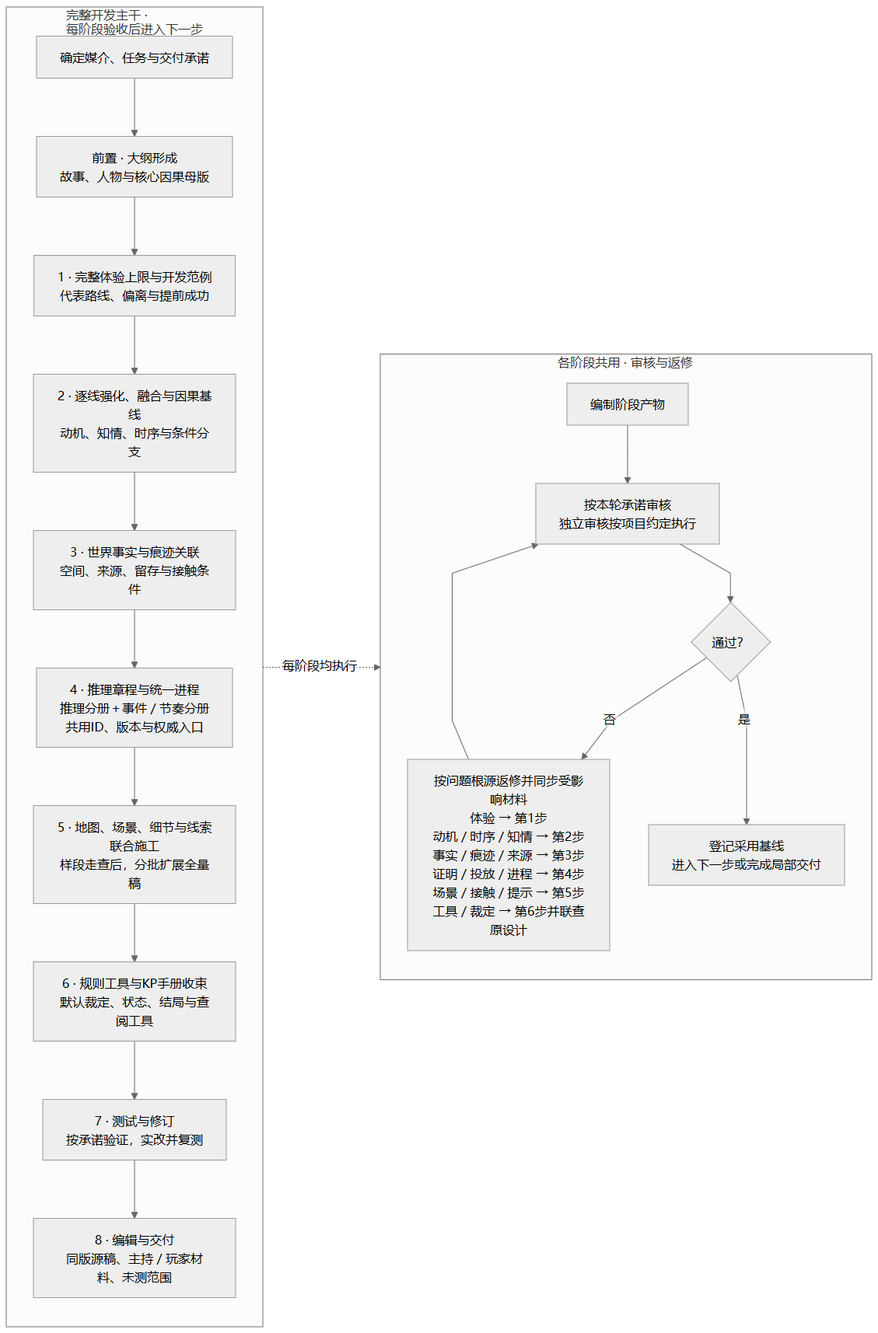
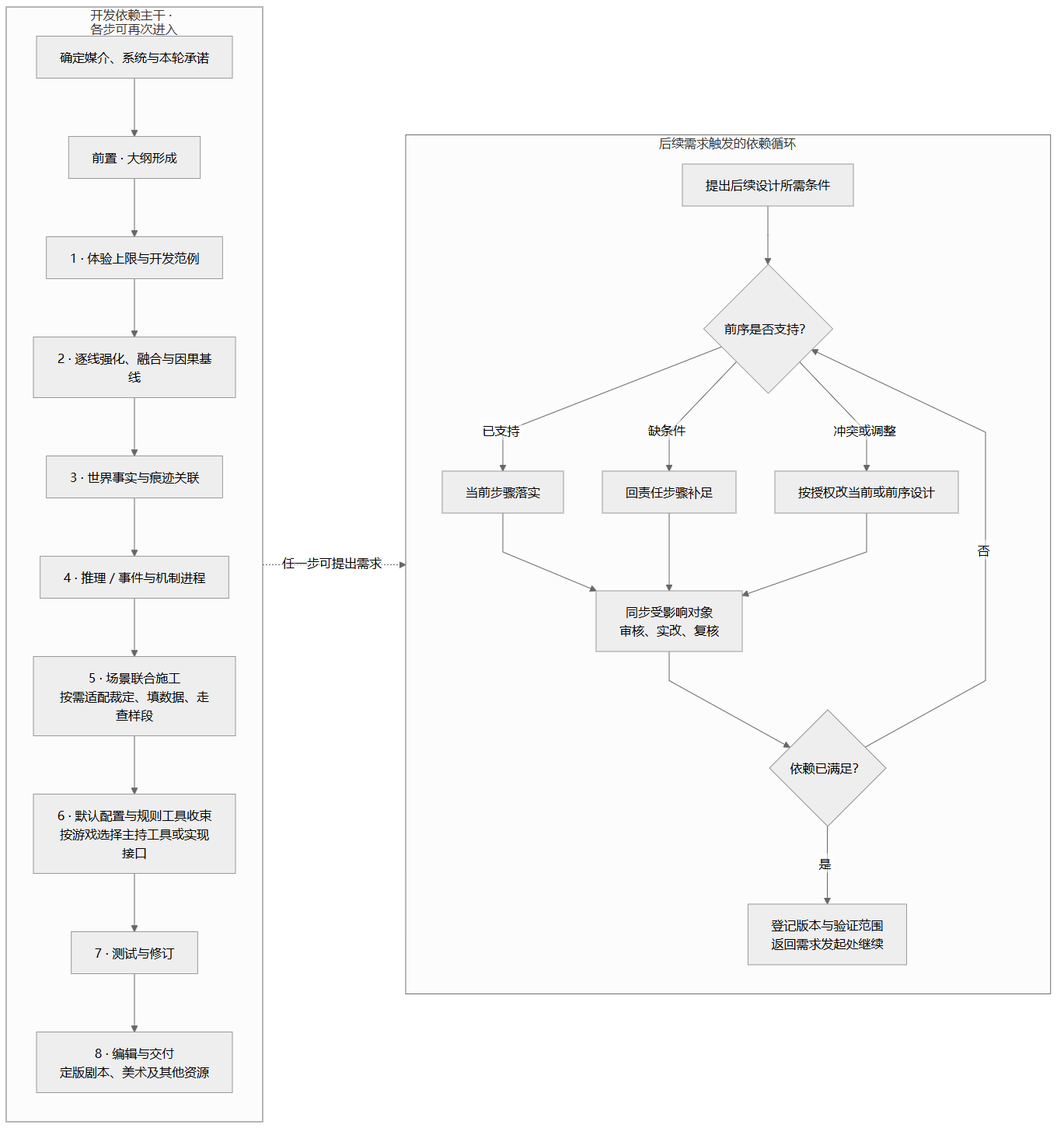
Clarify iterative workflow and game-specific configuration

diff --git a/coc-script-writing/references/workflow.md b/coc-script-writing/references/workflow.md
@@ -2,15 +2,17 @@
 
 本页用于安排一轮或一个阶段的开发。任务分流见[范围](scope.md)，记录字段见[字段与例子](contracts.md)，审核标准见[验收](review.md)。
 
-先选媒介和本轮交付目标，再进入相应步骤。以下“前置＋八阶段”是调查型互动／COC完整开发的工作顺序；玩家可以按实际选择探索故事。
+先选媒介和本轮交付目标，再进入相应步骤。以下“前置＋八阶段”以调查型互动／COC为例说明开发依赖；每一步可因后续需求再次进入，玩家可以按实际选择探索故事。
 
 文中“母版”指项目当前采用的故事总稿；“基线”指本轮修改应遵循的已采用内容；“施工”指把设计落实为场景、地图、材料和裁定。局部任务从相应步骤开始，不必重做全流程。
 
+来源修订：2026-10-10，完整流程v1.16；本轮明确后续依赖循环及按游戏选择的机制／配置任务。
+
 ## 工作流总图
 
-下图是调查型互动／COC的完整开发主干，表示作者的开发依赖顺序，不规定玩家的探索顺序。局部任务从对应步骤进入；其他媒介按后文适配表替换产物。
+下图以调查型互动／COC表示开发主干，右侧展示后续需求触发的回溯循环，不规定玩家的探索顺序。局部任务从对应步骤进入；其他媒介按后文适配表替换产物。
 
-![COC剧本开发工作流：前置与八阶段、阶段审核循环和按根源返修](../assets/workflow-overview.png)
+![剧本开发工作流：前置与八阶段、后续依赖循环及按游戏配置](../assets/workflow-overview.png)
 
 [查看可缩放SVG](../assets/workflow-overview.svg)。
 
@@ -19,34 +21,39 @@
 
 ```mermaid
 flowchart LR
-    subgraph MAIN["完整开发主干 · 每阶段验收后进入下一步"]
+    subgraph MAIN["开发依赖主干 · 各步可再次进入"]
         direction TB
-        T["确定媒介、任务与交付承诺"] --> P0["前置 · 大纲形成<br/>故事、人物与核心因果母版"]
-        P0 --> P1["1 · 完整体验上限与开发范例<br/>代表路线、偏离与提前成功"]
-        P1 --> P2["2 · 逐线强化、融合与因果基线<br/>动机、知情、时序与条件分支"]
-        P2 --> P3["3 · 世界事实与痕迹关联<br/>空间、来源、留存与接触条件"]
-        P3 --> P4["4 · 推理章程与统一进程<br/>推理分册＋事件／节奏分册<br/>共用ID、版本与权威入口"]
-        P4 --> P5["5 · 地图、场景、细节与线索联合施工<br/>样段走查后，分批扩展全量稿"]
-        P5 --> P6["6 · 规则工具与KP手册收束<br/>默认裁定、状态、结局与查阅工具"]
-        P6 --> P7["7 · 测试与修订<br/>按承诺验证，实改并复测"]
-        P7 --> P8["8 · 编辑与交付<br/>同版源稿、主持／玩家材料、未测范围"]
+        T["确定媒介、系统与本轮承诺"] --> P0["前置 · 大纲形成"]
+        P0 --> P1["1 · 体验上限与开发范例"]
+        P1 --> P2["2 · 逐线强化、融合与因果基线"]
+        P2 --> P3["3 · 世界事实与痕迹关联"]
+        P3 --> P4["4 · 推理／事件与机制进程"]
+        P4 --> P5["5 · 场景联合施工<br/>按需适配裁定、填数据、走查样段"]
+        P5 --> P6["6 · 默认配置与规则工具收束<br/>按游戏选择主持工具或实现接口"]
+        P6 --> P7["7 · 测试与修订"]
+        P7 --> P8["8 · 编辑与交付<br/>定版剧本、美术及其他资源"]
     end
-    subgraph Q["各阶段共用 · 审核与返修"]
+    subgraph LOOP["后续需求触发的依赖循环"]
         direction TB
-        W["编制阶段产物"] --> R["按本轮承诺审核<br/>独立审核按项目约定执行"]
-        R --> D{"通过？"}
-        D -->|否| F["按问题根源返修并同步受影响材料<br/>体验 → 第1步<br/>动机／时序／知情 → 第2步<br/>事实／痕迹／来源 → 第3步<br/>证明／投放／进程 → 第4步<br/>场景／接触／提示 → 第5步<br/>工具／裁定 → 第6步并联查原设计"]
-        F --> R
-        D -->|是| V["登记采用基线<br/>进入下一步或完成局部交付"]
+        N["提出后续设计所需条件"] --> C{"前序是否支持？"}
+        C -->|已支持| I["当前步骤落实"]
+        C -->|缺条件| B["回责任步骤补足"]
+        C -->|冲突或调整| A["按授权改当前或前序设计"]
+        I --> S["同步受影响对象<br/>审核、实改、复核"]
+        B --> S
+        A --> S
+        S --> D{"依赖已满足？"}
+        D -->|否| C
+        D -->|是| V["登记版本与验证范围<br/>返回需求发起处继续"]
     end
-    MAIN -. "每阶段均执行" .-> Q
+    MAIN -. "任一步可提出需求" .-> LOOP
 ```
 
 </details>
 
-图中实线表示主干顺序或审核循环，虚线表示每阶段均调用右侧审核循环；返修位置列在右侧。各阶段验收后才登记采用基线；非调查任务在第4步整理事件与信息进程。工具／裁定问题按相应原设计及第5—6步返修；母版事实改动另按项目授权处理。
+主干实线表示依赖，右侧实线表示需求处理，虚线表示各阶段均可发起回溯。已满足的设计继续落实；新增条件、冲突或合理调整回责任步骤处理。阶段审核和独立验收按当前承诺执行，固定事实修改仍按项目授权。
 
-时间与节奏评估贯穿各阶段；主题呈现按任务选用。修改后同步受影响的事实、两分册和场景材料，并按影响复核。图仅作导航，具体输入、交付和完成依据以下文为准。
+时间与节奏评估贯穿阶段，主题按需选用。机制和配置沿原阶段落实，具体规则按游戏选择；资源在最终阶段交付。图只作导航，执行依据见下文。
 
 ## 媒介与任务适配
 
@@ -85,6 +92,52 @@ flowchart LR
 **验证到哪一步：**按本轮承诺区分文本候选、接口包和可运行成品。文本候选可通过纸面验收；完整可主持的COC成品需要已核关键规则、完整默认裁定，并记录实际非作者运行资格。可运行数字交付需要实现和运行证据。
 
 真人桌测、排演、用户测试分别记录实际资格。完成约定范围即可交付，范围外列为未测。详细标准见[验收](review.md)。
+
+## 后续需求与前序设计的循环
+
+前置＋八阶段表示开发依赖，不表示各阶段只做一次。循环的主要触发是后续设计需要前序条件得到落实、补足或修改；阶段审核仍按当前承诺执行。某阶段通过，只证明该对象在当时范围内通过，不永久关闭该阶段。
+
+1. **提出需求。** 当前场景、机制、配置或测试说明需要什么条件、来自哪个对象，以及不满足会影响什么。例如切断供电的行动需要可接近的设施，停电后哪些事件应改变。
+2. **核对现有前序。** 先检查当前采用版本，不因当前页面未写就断言不存在。按下表决定工作位置。
+3. **落实或修改。** 已有支持在当前步骤实现；缺条件回责任阶段补足；冲突或改进按授权调整当前方案或前序设计。改变母版固定事实另记差异，不自动解冻。
+4. **同步与复核。** 更新受影响的因果、事实、机制、数据、信息进程、场景及工具；只更新实际相关对象。复核需求是否满足、旧有行动与成果是否仍成立，记录新版本、修改范围及未测项。
+5. **返回需求发起处。** 使用同版本结果继续当前工作。仍未满足的决定性依赖保持阻断；可独立推进的部分继续，不虚构前提，也不无故重跑全流程。
+
+| 前序检查结果 | 执行动作 | 继续依据 |
+|---|---|---|
+| 已支持，尚未落实 | 在当前场景或配置中引用并实现 | 行动、反馈和结果与既有条件一致 |
+| 缺少必要条件或数据 | 回负责该事实、机制或配置的步骤补足 | 所需条件有依据，相关数据可用 |
+| 存在冲突或需要调整设计 | 比较改当前方案与改前序的影响，按授权实改 | 因果和约束成立，受影响对象复核通过 |
+
+返修位置按问题归属，见后文“工作循环与返修”。不把所有缺数都退回第2步，也不把所有机制问题都留到第6步。填数若改变原先假设的能力、耗时、成本或结果，应重新核相关设计。
+
+最小记录可合入既有问题表：需求及发起位置、依赖对象／版本、缺口或冲突、处理位置与理由、采用修改、影响范围、复核结果与继续位置。小修只记实际涉及项。
+
+**停点：**当前需求已满足、相关改动复核通过且本轮交付完成即可收束。未实现的设想和未测范围保留为开放项，不为了“完成循环”虚报通过。独立验收按项目约定审核本轮对象与影响范围，不自动把全部历史内容重新验收。
+
+## 按游戏选择机制与配置任务
+
+通用流程复用故事、因果、信息、空间、场景和验证依赖；游戏机制、裁定方式和具体数据按所选游戏决定。无规则的叙事作品无需填游戏数值；其他TRPG、数字互动或自定义游戏不默认采用COC检定、SAN、战斗或追逐。
+
+区分三项工作：**机制设计**确定玩家行为怎样改变条件、状态与结果；**规则适配**确定所选系统怎样裁定这些行为；**数据配置**在已确定机制下填写本项目需要的角色、物品、敌人、状态及参数。三项按依赖穿插于原阶段，不新增统一的机制阶段或通用数值模板。
+
+| 阶段 | 按需执行的机制／数据工作 | 完成依据 |
+|---|---|---|
+| 前置 | 确定媒介、所选系统与版本或自定义边界；记录决定核心故事可行性的规则约束 | 采用范围明确，决定性未知不作为已成立前提 |
+| 1 体验 | 提取路线需要的玩家行为、玩法和结果；必要时核关键能力 | 代表路线在所选游戏中有成立依据 |
+| 2 因果 | 设计机制目的、前件、变化、干预和后果，联查人物知情 | 机制支持故事因果与真实选择 |
+| 3 世界 | 落实机制所需实体、空间、事实、状态来源及接触条件 | 场景所需条件可存在、可接近、可改变 |
+| 4 进程 | 接入触发、状态更新、时间、反馈和取消条件；调查时再接推理目标 | 事件与机制接口一致，提前成功持续生效 |
+| 5 场景 | 按场景需求适配裁定，填写必要数据并走查正常、偏离、重复和取消 | 样段不缺决定性裁定或配置，变化可追踪 |
+| 6 配置与工具 | 核同版本默认配置、可调范围、数据一致性及查阅入口；提取主持工具或实现接口 | 默认方案完整，使用者无需临场补决定性设计 |
+| 7 测试 | 按承诺验证规则和配置，发现问题返回责任步骤，修改后复测 | 当前验证证据绑定实际对象与配置版本 |
+| 8 交付 | 汇总定版剧本文稿、美术及其他资源，并附规则、配置、源稿与使用说明 | 所需资源齐全、同版、权限及未测范围可查 |
+
+影响行动可行性、因果或体验的机制与数值须在依赖它们之前核验，第6步负责收束，不是首次决定所有机制。仅文本／接口交付注明待实现和未运行范围，不能冒称完整游戏已可运行。
+
+填写数据先确定当前对象需要哪些字段，记录字段含义、单位或取值类型、默认值及依据、适用条件和版本；只填当前需要的项。具体规则来自实际系统或明确标注的项目自定义设计；缺来源或决定性数值时登记待核及影响，不臆造“通用标准值”。没有某类机制时，说明不适用，不强填空表。
+
+美术、剧本及其他最终资源归第8步交付，不另建资源开发阶段。前序用于验证的正文、地图或手证样稿是设计依据；最终资源若改变信息、操作或反馈，按影响回原设计及第7步复核。
 
 ## 前置：大纲形成
 
@@ -158,6 +211,8 @@ flowchart LR
 
 ### 第3步的后续返工
 
+按[后续需求循环](#后续需求与前序设计的循环)回溯，以下补充本步的事实边界。
+
 后续推理、地图、场景、规则或测试提出合理优化需求时也可返回本步，不限硬矛盾。事实／来源／留存与继承关系改变时更新本步，涉及人物动机或事件因果则联查第2步；仅提供位置或呈现方式改变且事实未变，修改相应后续产物即可。同步受影响时点、空间、知情、材料、目录和两分册／场景，按影响复核并登记新版本。母版修改权限另按项目约定，第三步返工不自动解冻母版。
 
 ## 第4步：推理章程与统一进程
@@ -202,19 +257,19 @@ flowchart LR
 2. 联合检查空间、物性、视听、人手、搬运、时序和行动机会。
 3. 写一段完整样段，带齐需要的规则、地图、角色、材料与后果。先走查正常和偏离，再按有效模板分批扩展。
 
-交付：场景、地图、手证、人物运行、局部状态、可主持样段与全量稿。
+交付：场景设计稿、地图与手证样稿、人物运行、必要裁定和配置、局部状态、可主持样段与扩展稿；定版资源归第8步。
 
 完成：信息可按指定条件取得，自由行动有相称反馈；样段能由非作者KP运行。纸面模板检查与实际运行资格分开。
 
-## 第6步：规则工具与KP手册收束
+## 第6步：默认配置、规则工具与运行接口收束
 
 这一步统一内容与查阅方式。一般剧本整理正文和制作标注；数字互动整理状态与规则接口；COC整理默认裁定和KP手册。
 
 输入：内容完善的场景、已核关键规则、原设计。
 
-工作：按[coc](coc.md)统一裁定与生存结局，提取NPC／事件／状态／索引与使用手册。默认实现、可调项和待填责任明确，缺口回原设计修。
+工作：按所选游戏核验同版默认配置、裁定、状态与结局，提取查阅工具及主持手册或实现接口。COC任务才按[coc](coc.md)加入相应规则与KP工具，其他系统使用实际规则。默认实现、可调范围、单位、数据依据和待填责任明确；缺口按[后续需求循环](#后续需求与前序设计的循环)回责任步骤，不能在手册中临时补决定性设计。
 
-交付：规则表、状态事件工具、结局、手册与主持包候选。
+交付：本游戏需要的规则／配置表、状态事件工具、结局、主持手册或实现接口包候选。
 
 完成：同机制查阅口径一致，非作者无须补决定性事实。此步不新增剧情阶段，亦不作为前期省略机制设计的理由。
 
@@ -235,7 +290,7 @@ flowchart LR
 这一步让接收者找到同版本材料，并知道怎样准备、使用和结束。各媒介的交付对象见[媒介适配](#媒介与任务适配)。
 输入：达到约定验证范围的同版材料。
 
-工作：分KP／玩家包、核泄密，统一名称、ID、地图、手证与索引，附源稿、变更、配置、覆盖与限制。不同规格分别说明删改依赖与测试。
+工作：按约定汇总定版美术、剧本文稿与其他资源，分主持／玩家或实现方所需材料、核泄密，统一名称、ID、地图、手证与索引，附源稿、变更、配置、覆盖与限制。不同规格分别说明删改依赖与测试。
 
 交付：可编辑源稿、可主持或测试包、玩家材料、版本记录与交付边界。
 
@@ -243,7 +298,7 @@ flowchart LR
 
 ## 工作循环与返修
 
-常规阶段采用“编制→按当前承诺审核→实改→复核→登记基线”。需要深度探索多个方案时，使用[技巧](craft.md)的七步循环。
+后续需求先按[依赖循环](#后续需求与前序设计的循环)处理，再按当前承诺执行“编制→审核→实改→复核→登记基线”。需要深度探索多个方案时，使用[技巧](craft.md)的七步循环。
 
 场景施工按批推进：恢复当前基线，写一批，走查常规和偏离，修复问题，检查受影响的地图、手证等材料，登记完成范围。独立审核或逐步验收按用户约定执行，记录实际结果。
 
@@ -254,7 +309,9 @@ flowchart LR
 | 痕迹来源、生命周期、位置不成立 | 第3步 |
 | 证明断路、释放失衡、错误解释难修 | 第4步 |
 | 接触、操作、提示或查阅困难 | 第5步／第6步 |
-| 数值裁定、条件成功、结局不一致 | 相应原设计及第6步 |
+| 机制前件或行为后果缺失 | 相应原设计；因果第2步、事实第3步、进程第4步 |
+| 缺少场景数据或裁定 | 第5步；配置一致性与默认方案联查第6步 |
+| 数值改变能力、耗时、条件成功或结局 | 联查其影响的原设计及第5—6步 |
 | 母版事实必须改变 | 单列差异和影响，按项目授权处理 |
 
 保留成立部分，按影响复核，不为守冻结文本保矛盾，也不无故重跑整部开发。每轮交代做成什么、受众／玩家因而可经历或做什么、材料怎样支持理解、哪里未验证。

diff --git a/coc-script-writing/audit/29-workflow-use-check.md b/coc-script-writing/audit/29-workflow-use-check.md
@@ -1,0 +1,78 @@
+# 29｜流程依赖循环与机制配置独立纸面使用
+
+日期：2026-10-10。执行者未参与本轮流程／机制配置修订，实际读取克隆中的当前SKILL、scope、workflow、contracts后完成A—D；保留此前审读及旧参考编辑上下文，**非全新盲测**。本记录保存实际AI纸面输出，不是母版采用、工程核验、主持、排演、真人或引擎测试，也不是作者外审核本产物的报告。
+
+首次回答时未单独记录SHA，因此不追认首次对象字节未变。落盘前重新读取当前入口与有关正文：依赖循环三类处置、机制／规则／数据的区别、媒介适配、第5—8步及字段。当前文本仍支持以下四个输出，未发现要求修改输出的语义差异。下表绑定落盘前实际读取对象。
+
+## A｜第5步断电，前序已有设施与断电分支
+
+**执行位置与依赖：**留在第5步，引用第3步已有可接近配电箱、接近条件及既有事件断电分支。当前页未写不等于前序缺失，不无故重建第3步或返回第2步。
+
+**最小场景记录：**
+
+- 入口：引用已有配电箱及接近条件。
+- 行动：玩家选择操作配电箱断电；操作方式、耗时和裁定引用已有设计，有缺项才补核。
+- 结果：操作成立后进入既有断电分支，兑现取消、延迟或变化，保留此前已发生结果。拒绝操作保持原状态。
+- 重复：已经断电时再次执行不重复产生断电成果；恢复供电按已有条件处理。
+
+**成果与复核：**得到断电场景接口及其分支引用。核场景、地图和事件分支使用同版本，纸面检查执行／拒绝／已断电后三种情况。
+
+**本案结论：**已有支持可以继续当前步落实；处理位置与结果约束明确。原操作裁定、地图及事件分支全文未给，未核具体细节，不称完整样段运行通过。
+
+## B｜第5步缺供电设施，人物行动依赖不停电
+
+**执行位置与依赖：**第3步补设施，联查第2步人物知情和行动、第4步事件状态，再返回第5步。固定母版事实修改记录差异并按已有授权处理。
+
+**明确上游修改候选：**
+
+1. 第3步：为目标供电回路增加可接近控制设施，登记位置、接近方式、控制范围、操作条件及停电后保留状态。设施为候选，未冒充已有事实。
+2. 第2步：找出依赖持续供电的人物行动，保留其目标和原知情。设施存在不等于人物知道；断电后分别核实际观察、消息送达及行动能否继续。原行动失去前件时不能照演；替代行动须有原能力和资源依据。
+3. 第4步：供电状态接入事件触发、暂停／取消和反馈条件。
+4. 第5步：引用复核后的设施与进程，写操作、失败／拒绝、提前断电和后续反馈。
+
+**成果与复核：**补足候选及返修链。影响表为“设施事实→供电状态→人物知情／行动→事件条件→场景／地图”。核断电是否真的改变依赖事件、人物是否凭实际信息反应，以及旧有成果是否保留；通过后登记同版本并返回需求发起处。
+
+**本案结论：**回溯位置及继续依据可执行，但项目依赖仍待补足；设施方案、人物原行动和授权范围未给，不能宣称断电场景已完成。独立部分可以继续；未作工程或运行验证。
+
+## C｜非COC数字游戏，行动需10点而可得6点
+
+**执行位置与依赖：**第5步数据暴露行动不可达，联查受影响的机制／路线原设计及第5—6步配置。不能只填数宣布完成，也不把所有问题统一退回第2步。
+
+**实际诊断：**若这是必须完成的行动，又无其他已设计资源来源或替代路径，则最多6点不能支付10点，当前样段不能通过。
+
+**最小修订候选：**成本从10点改为6点，可得仍为6点，不增加隐藏奖励。单位沿用项目资源“点”；此为项目候选值，不是通用标准，不自动采用。
+
+- 入口：资源余额≥6且行动尚未完成。
+- 执行：支付6点，新余额写为原余额减6；本例6点写为0，行动结果写为已完成。
+- 不足：余额＜6提示缺额，不扣资源、不产生成功结果。
+- 重复：已完成后禁止再次扣费。
+
+**纸面走查成果：**6点→支付→0点并完成；5点→不执行→仍5点；完成后再请求→不扣费。此处6点分支按本例余额恰为6，其他可达余额须按实际项目取值复核。
+
+**本案结论：**已完成不可达诊断、数值候选及三条纸面状态走查；尚未完成整个路线修复。必须联查此前消耗、共享用途和后续必须行动；若6点另有不可避免支出，本候选仍不足，返回原设计重处理。原成本可改权限未给，未核平衡、完整资源路线或引擎实现，不能宣布游戏可运行。
+
+## D｜无游戏数值舞台剧与非调查自定义桌游
+
+| 对象 | 本案选择及最小交付 |
+|---|---|
+| 一般舞台剧 | 游戏机制、规则适配及数据配置不适用。用人物因果、空间和观看顺序写正文；第4步安排观众信息释放，无推理分册；第5步交场景正文及动作／制作问题，第6步整理同版正文和制作标注。 |
+| 有状态机制的非调查自定义桌游 | 采用项目自定义规则。第2步确定前件、变化、干预、后果；第3步落实状态来源及接触；第4步交事件／信息进程；第5步填本游戏必要数据并走查；第6步收束默认配置及主持工具。无需COC检定、SAN或完整推理分册。 |
+
+**桌游最小接口：**读取当前状态→核合法动作和成本→执行状态变化→反馈实际结果→核重复和终止。配置只填实际需要的状态类型、默认值、成本、条件、依据及版本；具体值未给，登记待核，不编造标准数。
+
+**最终资源与复核：**两者的定版剧本、美术和其他约定最终资源归第8步汇总；前序样稿用于设计和验证。最终资源若改变信息或操作，回对应设计及第7步复核。舞台剧按承诺冷读／排演，桌游按承诺纸面走查／主持／真人测试，各自记录实际范围。
+
+**本案结论：**已交媒介分流、机制任务及接口模板，没有强套调查或COC。尚未提供具体剧本和桌游规则，未完成这些作品的场景施工，也未排演、主持、真人或引擎测试。
+
+## 使用结论与对象指纹
+
+四案可由当前技能入口实际完成上述纸面分析和最小接口输出，未发现技能使用阻断。B、C和桌游配置的项目缺口如实保留，不把项目未完成等同方法通过，也不把本产物自评作为独立验收。
+
+读取路径根：`D:/SZK/Personal/COC/CocSWSkill/coc-script-writing/`。
+
+| 当前实际读取对象 | SHA256 |
+|---|---|
[4 lines of base64/hex data omitted]

diff --git a/coc-script-writing/audit/28-workflow-revision-review.md b/coc-script-writing/audit/28-workflow-revision-review.md
@@ -1,0 +1,56 @@
+# 28 · 工作流依赖循环与按游戏配置修订验收
+
+日期：2026-10-10。基于发布仓库1806b8553cf7387066dbc0b61ffc32665a6be52e，按用户要求修正现有流程，保留前置大纲与八阶段。循环以“后续设计需要前序支持”为触发；最终剧本、美术及其他资源归第8步，不另建资源阶段。
+
+## 改动与独立停点
+
+- 架构：taxonomy_recheck独立审核修订计划，通过。已有支持就在当前步骤落实；缺条件回责任步骤补足；冲突或合理调整按项目授权改当前或前序。同步影响对象、复核并登记版本后，返回需求发起处。
+- 内容：taxonomy_recheck独立复验正文、路由、源文与图示，初审发现源流程仍把返修限于硬矛盾、源README版本表仍为v1.15，两项实改后再次审核通过，无剩余必修。阶段表示例加COC适用说明；其他游戏按所选系统配置，一般剧本不强填游戏数值。
+- 使用：migration_acceptance独立执行四个具体纸面情境，输出与实际范围见[29使用检查](29-workflow-use-check.md)。执行者未参与本轮方法编写，保留先前审读上下文，不是盲测。taxonomy_recheck另读29实际输出并独立验收四案，通过：A不无谓返工，B保留候选与知情边界，C联查消耗且不把候选称标准，D按媒介分流。
+
+机制设计、规则适配与数据配置沿原阶段执行；决定性规则和数值在依赖之前核验，第6步统一默认配置与工具。固定母版不因后续需求自动解冻，返修遵循现有项目授权。
+
+## 实际检查与范围
+
+独立内容审核读取10份文本，检查208个本地链接／锚点，无错误；SVG XML解析通过，20个Mermaid节点／分组标签均在SVG内；PNG已独立查看，前置八步和三支循环清楚。作者另检查发布改动空白及图示生成结果。
+
+通过限本轮文本、路由和图示内容，不重授全部历史文档资格，不代替真人桌测、排演、引擎运行或项目成品验收。历史R4来源清单保留当时对象，本轮源文前后指纹另列如下。许可、推理和节奏方法未改。
+
+## 发布对象SHA256
+
+| 对象 | SHA256 |
+|---|---|
[9 lines of base64/hex data omitted]
+
+## 本地通用源文修订指纹
+
+源文保留在echo/design-guides；本轮只同步相应技能方法与入口，不将echo工程的其他内容纳入发布仓库。
+
+| 源文件 | 修订前SHA256 | 修订后SHA256 |
+|---|---|---|
[3 lines of base64/hex data omitted]
+
+## 冻结方法核验
+
+下列四对象与本轮开始时字节一致：
+
+| 对象 | SHA256 |
+|---|---|
[4 lines of base64/hex data omitted]
+
+## 收据与使用产物复核
+
[1 lines of base64/hex data omitted]

diff --git a/coc-script-writing/SKILL.md b/coc-script-writing/SKILL.md
@@ -20,6 +20,7 @@ description: "Use when drafting, revising, planning, or reviewing Chinese Call o
 | 游玩估时、节奏、疲劳、版本比较或复盘 | [时间与节奏](references/play-evaluation.md)，先读第18节合同，粗稿用第14节A—D |
 | 题材主题及线索／痕迹的呈现 | [主题呈现](references/theme-presentation.md)及当前领域 |
 | 异常、恐怖、系统接口、KP手册和成品 | [COC](references/coc.md) |
+| 后续设计缺前序条件、机制设计或按游戏配置 | [流程](references/workflow.md#后续需求与前序设计的循环)；字段需要时加[字段与例子](references/contracts.md) |
 | 整阶段或整轮开发 | [流程](references/workflow.md)，随后逐阶段加载相关领域 |
 | 大纲、场景、重写、可读性、候选发展 | [技巧](references/craft.md)及当前领域 |
 | 填写必要卡表或最小交付 | [字段与例子](references/contracts.md) |
@@ -40,7 +41,7 @@ description: "Use when drafting, revising, planning, or reviewing Chinese Call o
 
 ## 完成与验证
 
-依[流程](references/workflow.md)确定输入、工作、产物和完成依据。用户约定独立验收时，由未参与该步编写的人或代理读取实际稿并记录证据；问题实改、复验通过后再进入下一步。按实际执行情况登记验收身份与范围。
+依[流程](references/workflow.md)确定输入、工作、产物和完成依据。用户约定独立验收时，由未参与该步编写的人或代理读取实际稿并记录证据；后续需求可能要求回前序补足或修改；按影响同步，问题实改、复验通过后返回需求发起处继续，已满足依赖的工作可推进。按实际执行情况登记验收身份与范围。
 
 交付说明当前对象、完成状态、主要变化和必要开放项。旧评分只归旧稿；当前文本复核、AI模拟、非作者KP运行和真人桌测分别登记。达到本轮标准后收束，尚未解决的问题如实保留。
 

diff --git a/coc-script-writing/references/scope.md b/coc-script-writing/references/scope.md
@@ -33,6 +33,7 @@
 | 设计非调查互动的合作、任务或跨线 | [互动](interactive.md)；跨线加[叙事](narrative.md)及[七类联系](investigation.md#seven-links) | 条件、动作、状态与反馈；按需采用行动或信息／探索联系 |
 | 设计调查信息与推理体验 | [推理设计](inference-design.md)，加相关[叙事](narrative.md)／[互动](interactive.md)；七类联系读[调查](investigation.md#seven-links) | 玩家材料、认知动作、证明范围及行动用途 |
 | 写COC异常或主持材料 | [COC](coc.md)，加涉及的人物／条件参考 | 符合当前系统与交付成熟度的具体产物 |
+| 后续设计要求前序补足／修改，或按游戏配置机制与数据 | [流程的依赖循环](workflow.md#后续需求与前序设计的循环)及[机制与配置任务](workflow.md#按游戏选择机制与配置任务) | 需求、责任步骤、影响范围、实改与复核；采用实际游戏规则 |
 | 整阶段／整轮开发 | [流程的媒介适配](workflow.md#媒介与任务适配)，再逐阶段加载领域参考 | 约定输入、产物、完成证据及返修位置 |
 | 验收或维护现有版本 | [验收](review.md)或[维护](maintenance.md)，加被改领域及必要[字段](contracts.md) | 对象、覆盖、问题响应与当前状态，不继承旧对象资格 |
 

diff --git a/coc-script-writing/README.md b/coc-script-writing/README.md
@@ -127,7 +127,7 @@ coc-script-writing/
 
 本技能来自COC开发实践与通用方法整理，目标是把故事设想发展成可读、可调查、可选择、可主持、可维护的剧本。它按媒介、任务和阶段选方法；从剧情用途连接推理目标、证据与行动；共同检查时间、体验、疲劳和主题呈现。方法特色是已有研究与实践的工程整合，不宣称学术首创或已证明真人效果。
 
-简要流程：前置大纲→体验设计→逐线融合→世界事实→推理／事件章程→场景施工→规则工具→测试修订→编辑交付。局部任务按需调用，不必完整走一遍；完整阶段、验收和返修路径见[工作流总图](references/workflow.md#工作流总图)。
+简要流程：前置大纲→体验设计→逐线融合→世界事实→推理／事件章程→场景施工→配置与规则工具→测试修订→编辑交付。阶段表示依赖、可重复进入；后续需要可返回前序补足或修改，按影响复核后继续。机制与数据按游戏配置，定版资源归最终交付。局部任务按需调用，不必完整走一遍；完整阶段、验收和返修路径见[工作流总图](references/workflow.md#工作流总图)。
 
 ## 授权：CC BY-NC-ND 4.0
 

diff --git a/coc-script-writing/audit/acceptance.md b/coc-script-writing/audit/acceptance.md
@@ -1,6 +1,12 @@
 # 分步独立验收与当前资格
 
-## R4通用方案再整合：当前采用
+## 工作流依赖循环与按游戏配置：当前采用
+
+2026-10-10，保留前置与八阶段，按后续需求落实、补足或授权调整前序；机制／规则／数据沿原阶段按游戏执行，第6步收束，第8步交付最终资源。架构及内容由taxonomy_recheck独立审核，两处源文必修关闭后复验通过。migration_acceptance执行四个纸面用例，taxonomy_recheck另读实际输出并独立验收通过；执行者未参与本轮方法编写但有旧审读上下文，非盲测。
+
+对象、源文前后指纹及内容检查见[28验收](28-workflow-revision-review.md)，具体使用输出与未测项见[29使用检查](29-workflow-use-check.md)。通过限该轮文本、图示及AI纸面使用，不授真人／引擎资格；推理、节奏及许可未改。后文历史资格仍限其各自对象。
+
+## R4通用方案再整合：方法沿用
 
 2026-10-10，在仓库既有推理迁移786052e基础上保留参考1.1的角色域修正，形成1.2节奏／主题接口；完整迁入节奏v1.1及新增主题规范，补齐流程返工、两分册、百分制、专项检查和项目门面、自用许可。
 

diff --git a/coc-script-writing/references/contracts.md b/coc-script-writing/references/contracts.md
@@ -123,6 +123,12 @@
 
 数字节点接口依执行顺序写：入口条件→读取既有状态→玩家行动→结果条件→写入新状态→反馈→出口。分支汇合时读取此前差异，使已有成果继续生效。接口文本、实际实现和测试各自登记。
 
+## 按游戏配置与依赖需求记录
+
+任务执行与字段选择依据见[流程的机制与配置任务](workflow.md#按游戏选择机制与配置任务)。配置只记录本游戏实际需要的对象、字段含义、单位／类型、默认值、依据、适用条件及版本；不要求所有系统填写同一套角色或战斗数值。
+
+后续需求可合入既有问题表：发起位置与需求、依赖对象／版本、已有支持／缺口／冲突、责任步骤与理由、采用修改、影响范围、复核结果及返回位置。小修只填写相关项，具体循环由[流程](workflow.md#后续需求与前序设计的循环)维护。
+
 ## 审核与变更
 
 每项问题记录位置与版本、事实或引文，再说明缺陷、影响、级别、修法、复核标准及处理状态。分数可以附在诊断后，不能代替证据。

diff --git a/coc-script-writing/audit/README.md b/coc-script-writing/audit/README.md
@@ -6,6 +6,8 @@
 
 本轮通用方案再整合与节奏／主题扩展见[20整合记录](20-integration-revision.md)、[21内容复验](21-integration-content-review.md)、[22实际使用](22-integration-use-output.md)、[23使用裁定](23-integration-use-review.md)及[R4来源清单](source-manifest-r4.json)，旧报告保留原对象。
 
+本轮工作流依赖循环与按游戏配置修订见[28修订验收](28-workflow-revision-review.md)和[29独立使用检查](29-workflow-use-check.md)，资格仅覆盖各报告绑定的对象与验证范围。
+
 ## 先看当前状态
 
 [acceptance.md](acceptance.md)汇总各轮的对象、结论和限制。当前文本有后续修改时，以新一轮报告绑定的对象为准。早期报告中的“阻断”“待验收”和机器路径，反映当时状态；后来的通过不会改写旧记录。

diff --git a/coc-script-writing/ARCHITECTURE.md b/coc-script-writing/ARCHITECTURE.md
@@ -59,7 +59,7 @@ coc-script-writing/
     investigation.md             调查总览与七类推理／行动联系
     inference-design.md          目标、双层认知、多轴线索、推理体验、投放与A—G模板
     coc.md                       异常／恐怖、系统接口、人数负担、KP手册与成品
-    workflow.md                  前置＋八阶段；一般／互动适配；阶段与施工循环
+    workflow.md                  前置＋八阶段依赖；后续需求回溯；按游戏机制／配置及交付
     craft.md                     中文表达、场景、反转、研究转译与候选发展技巧
     contracts.md                 按需填写的最小产物字段与填写示例
     review.md                    分阶段标准、十二维、独立验收、反例、测试、停止
